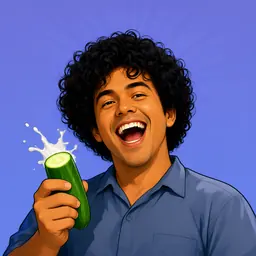
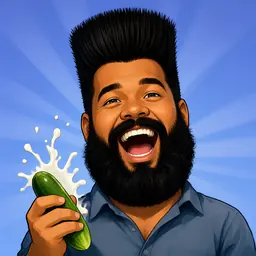
Inicio con música, sonidos limpios, portada animada y tarjetas de piloto grandes
- Tema del menú «Tóxico de Managua»: original, compás en 3 con color frigio dominante,
  estrofa de arpegio limpio y coro pesado (inicio, menús y sala).
- Sonidos de interfaz nuevos: tic al pasar, doble nota al elegir, campanita al
  confirmar y nota bajando al volver.
- Portada: entrada animada, brillo en JUGAR, íconos en los botones, «Sonando» con
  ecualizador para silenciar y la pandilla desfilando abajo.
- Tarjetas de piloto con el retrato grande. Retratos de Semilla (entradas, pelo
  peinado para atrás), Chete (camiseta rosada) y Raulín (pelo chirizo y barbota).

Claude-Session: https://claude.ai/code/session_01HN3xk9krfcrwq95wq7vuzq

diff --git a/src/App.tsx b/src/App.tsx
@@ -3,6 +3,7 @@ import { FullscreenButton } from './components/FullscreenButton';
 import {AssetBoundary} from './components/AssetBoundary';
 import {useDialogTrap} from './components/useDialogTrap';
 import {menuAudio} from './game/menuAudio';
+import {NowPlaying,GangStrip,ChipIcon} from './components/TitleExtras';
 import {ModeIcon} from './components/WeaponIcon';
 import { ArcadeGarage } from './components/ArcadeGarage';
 import { WorldPicture } from './components/WorldPicker';
@@ -30,7 +31,7 @@ export default function App(){
  const [selection,setSelection]=useState(initialSelection),[trackId,setTrack]=useState('la-salle'),[mode,setMode]=useState<Mode>('race'),[bots,setBots]=useState(5),[difficulty,setDifficulty]=useState(()=>{try{return Number(localStorage.getItem('morly-difficulty')??1);}catch{return 1;}}),[session,setSession]=useState<Session|null>(null),[view,setView]=useState<'menu'|'lobby'|'game'>('menu'),[step,setStep]=useState(0),[busy,setBusy]=useState(false),[error,setError]=useState(''),[code,setCode]=useState(()=>new URLSearchParams(location.search).get('sala')??''),[online,setOnline]=useState(false),[install,setInstall]=useState<InstallEvent|null>(null),[info,setInfo]=useState<'install'|'help'|'settings'|null>(null),[offlineStatus,setOfflineStatus]=useState('');
  const [updateReady,setUpdateReady]=useState(false);useEffect(()=>{const on=()=>setUpdateReady(true);window.addEventListener('morly-update',on);return()=>window.removeEventListener('morly-update',on);},[]);
  const applyUpdate=async()=>{const reg=await navigator.serviceWorker?.getRegistration();if(!reg?.waiting)return location.reload();navigator.serviceWorker.addEventListener('controllerchange',()=>location.reload(),{once:true});reg.waiting.postMessage({type:'ACTIVATE_FROM_MENU'});};
- const closeInfo=useCallback(()=>setInfo(null),[]);useDialogTrap(info!==null,closeInfo);useEffect(menuAudio,[]);
+ const closeInfo=useCallback(()=>setInfo(null),[]);useDialogTrap(info!==null,closeInfo);useEffect(()=>view==='game'?undefined:menuAudio(),[view]);
  // Draw the pilot and car portraits while the title screen is up, so the garage never opens on empty slots.
  useEffect(()=>{const t=window.setTimeout(()=>{void import('./game/portraits').then(m=>m.characterPortraits().then(()=>m.vehiclePortraits()));},350);return()=>window.clearTimeout(t);},[]);
  useEffect(()=>{if(!offlineStatus||offlineStatus.startsWith('Guardando')||offlineStatus.startsWith('Liberando'))return;const timeout=setTimeout(()=>setOfflineStatus(''),6000);return()=>clearTimeout(timeout);},[offlineStatus]);
@@ -49,7 +50,7 @@ export default function App(){
  if(view==='game'&&session)return <AssetBoundary fallback={<div className="full-loading"><b>EL MOTOR NO DESCARGÓ.</b><span>Vuelve a conectarte y recarga el juego para guardar sus recursos.</span><button className="button yellow" onClick={exit}>Volver al garaje</button></div>}><Suspense fallback={<div className="full-loading"><b>MORLY KONG RACING</b><span>Inflando las llantas. El ego ya venía inflado.</span><button className="button cream" onClick={exit}>Volver</button></div>}><GameView session={session} onExit={exit}/></Suspense></AssetBoundary>;
  if(view==='lobby'&&session instanceof OnlineSession)return <Lobby session={session} onPlay={()=>setView('game')} onBack={exit}/>;
  return <div className={'arcade-app '+(step===0?'title-screen':'selection-screen step-'+step)}><div className="arcade-scanlines"/>
- {step===0?<><TitleArt/><div className="title-vignette"/><div className="title-content"><span className="arcade-edition">MANAGUA • EDICIÓN SIN GARANTÍA</span><h1 className="game-logo"><span>MORLY</span><span>KONG</span><b>RACING</b></h1><div className="checker-stripe"/><p>Los carros de antes. Las malas decisiones de siempre.</p><button autoFocus className="press-start" onClick={()=>setStep(1)}>JUGAR <span>▶</span></button><span className="insert-coin">PRESIONA ENTER · NO HACEMOS DEVOLUCIONES DE DIGNIDAD</span><div className="title-links"><button onClick={()=>setInfo('help')}>CONTROLES</button><button onClick={()=>setInfo('settings')}>AJUSTES</button><button onClick={()=>{setStep(4);setMode('race');}}>SALA PRIVADA</button><button onClick={()=>install?install.prompt():setInfo('install')}>INSTALAR</button><FullscreenButton variant="text" onUnsupported={()=>setInfo('install')}/></div></div>{updateReady&&<div className="arcade-toast update-toast" role="status"><span>Hay una versión nueva del juego.</span><button onClick={applyUpdate}>ACTUALIZAR AHORA</button></div>}<div className="title-bottom"><span className={online?'status-online':''}>{online?'● SERVIDOR ONLINE':'● MODO LOCAL LISTO'}</span><span>{CHARACTERS.length} PILOTOS · {VEHICLES.length} CARROS · {TRACKS.length} PISTAS</span><span>LA PANDILLA, SIN SUPERVISIÓN ADULTA.</span></div></>:
+ {step===0?<><TitleArt/><div className="title-vignette"/><div className="title-content"><span className="arcade-edition">MANAGUA • EDICIÓN SIN GARANTÍA</span><h1 className="game-logo"><span>MORLY</span><span>KONG</span><b>RACING</b></h1><div className="checker-stripe"/><p>Los carros de antes. Las malas decisiones de siempre.</p><button autoFocus className="press-start" onClick={()=>setStep(1)}>JUGAR <span>▶</span></button><span className="insert-coin">PRESIONA ENTER · NO HACEMOS DEVOLUCIONES DE DIGNIDAD</span><div className="title-links"><button onClick={()=>setInfo('help')}><ChipIcon name="controles"/>CONTROLES</button><button onClick={()=>setInfo('settings')}><ChipIcon name="ajustes"/>AJUSTES</button><button onClick={()=>{setStep(4);setMode('race');}}><ChipIcon name="sala"/>SALA PRIVADA</button><button onClick={()=>install?install.prompt():setInfo('install')}><ChipIcon name="instalar"/>INSTALAR</button><FullscreenButton variant="text" onUnsupported={()=>setInfo('install')}/></div></div>{updateReady&&<div className="arcade-toast update-toast" role="status"><span>Hay una versión nueva del juego.</span><button onClick={applyUpdate}>ACTUALIZAR AHORA</button></div>}<NowPlaying/><GangStrip/><div className="title-bottom"><span className={online?'status-online':''}>{online?'● SERVIDOR ONLINE':'● MODO LOCAL LISTO'}</span><span>{CHARACTERS.length} PILOTOS · {VEHICLES.length} CARROS · {TRACKS.length} PISTAS</span><span>LA PANDILLA, SIN SUPERVISIÓN ADULTA.</span></div></>:
 <><header className="arcade-header"><button className="mini-logo" onClick={()=>setStep(0)}>MORLY KONG <b>RACING</b></button><nav aria-label="Preparar partida">{['PILOTO','CARRO','PISTA','PARTIDA'].map((label,i)=><button key={label} className={step===i+1?'active':''} onClick={()=>setStep(i+1)}><i>{i+1}</i>{label}</button>)}</nav><FullscreenButton onUnsupported={()=>setInfo('install')}/><button className="arcade-help" onClick={()=>setInfo('help')} aria-label="Controles">?</button></header>
 <div className="arcade-heading"><span>{['','LA PANDILLA','EL GARAJE','EL CIRCUITO','A DAR LORA'][step]}</span><h1>{headings[step]}</h1><p>{subheadings[step]}</p></div>
 <main className="arcade-main">{step===1||step===2?<ArcadeGarage step={step} characterId={selection.characterId} vehicleId={selection.vehicleId} onCharacter={id=>setSelection(s=>({...s,characterId:id}))} onVehicle={id=>setSelection(s=>({...s,vehicleId:id}))}/>:step===3?<div className="arcade-worlds"><div className="world-3d-preview arcade-panel"><AssetBoundary fallback={null}><Suspense fallback={null}><Backdrop worldId={trackId} overview/></Suspense></AssetBoundary><div className="world-preview-caption"><strong>{track(trackId).name}</strong><span>{worldBanter[TRACKS.findIndex(t=>t.id===trackId)]}</span></div></div><div className="arcade-world-grid">{TRACKS.map((t,i)=><button className={'arcade-world-card '+(trackId===t.id?'selected':'')} key={t.id} onClick={()=>setTrack(t.id)} aria-pressed={trackId===t.id}><WorldPicture id={t.id}/><b>{t.name}</b><span>{worldBanter[i]}</span>{trackId===t.id&&<i>▶</i>}</button>)}</div></div>:<div className="arcade-setup"><section className="arcade-panel setup-modes"><div className="panel-strip">¿QUÉ TAN PERSONAL ES ESTO?</div><div className="arcade-modes">{MODES.map((m,i)=><button className={'arcade-mode '+(mode===m.id?'selected':'')} key={m.id} onClick={()=>setMode(m.id)} aria-pressed={mode===m.id}><ModeIcon kind={m.id}/><div><strong>{m.name}</strong><small>{m.note}</small><p>{modeBanter[i]}</p></div>{mode===m.id&&<b>▶</b>}</button>)}</div></section><section className="arcade-panel setup-ready"><div className="panel-strip">EL SOSPECHOSO Y SU VEHÍCULO</div><div className="setup-combination"><b>1P</b><div><strong>{character(selection.characterId).name} × {vehicle(selection.vehicleId).name}</strong><span>{mode==='championship'?'Copa: '+cupFor(trackId).map(id=>track(id).name).join(' → '):track(trackId).name}</span></div></div><div className="setup-fields"><label>Tu apodo<input maxLength={24} value={selection.nickname} onChange={e=>setSelection(s=>({...s,nickname:e.target.value}))} autoComplete="nickname"/></label><label>Bots de relleno<select value={bots} onChange={e=>setBots(Number(e.target.value))}><option value={0}>Sin bots</option>{[3,5,7,11].map(n=><option key={n} value={n}>{n} bots</option>)}</select></label><label>Nivel de los bots<select value={difficulty} onChange={e=>setDifficulty(Number(e.target.value))}><option value={0}>Relajados</option><option value={1}>Normales</option><option value={2}>Picados</option></select></label></div><button className="arcade-primary" onClick={play}>¡A LA PISTA! <span>▶</span></button><button className="arcade-secondary" onClick={()=>room()} disabled={busy}>{busy?'BUSCANDO CÓMPLICES…':'CREAR SALA PRIVADA ↗'}</button><div className="arcade-join"><label className="sr-only" htmlFor="room-code">Código de sala</label><input id="room-code" maxLength={8} value={code} placeholder="CÓDIGO DE SALA" onChange={e=>setCode(e.target.value.toUpperCase())} onKeyDown={e=>{if(e.key==='Enter')room(true);}}/><button onClick={()=>room(true)} disabled={busy}>ENTRAR ▶</button></div><p className="setup-banter">¿Perdiste? La culpa es del lag. Aunque estés jugando solo.</p>{error&&<p className="notice" role="alert">{error}</p>}</section></div>}</main>

diff --git a/src/game/music.ts b/src/game/music.ts
@@ -8,7 +8,7 @@
  */
 export type Inst='square'|'brass'|'accordion'|'marimba'|'steel'|'synth'|'pad'|'bass'|'pluck'|'piano'|'organ'|'dist'|'clean'|'sub'|'chip'|'rhodes'|'vibes'|'upright'|'wah'|'nylon'|'strings';
 export type Drum='kick'|'snare'|'hat'|'openhat'|'clap'|'tom'|'lowtom'|'guiro'|'rim'|'shaker'|'cowbell'|'riser'|'scratch'|'crash'|'tamb'|'boom'|'ride'|'brush';
-export type Groove='march'|'cumbia'|'drive'|'disco'|'tribal'|'reggae'|'britpop'|'hiphop'|'numetal'|'newwave'|'funkrock'|'grunge'|'chipplat'|'chipadv'|'sonnica'|'jazz'|'lounge'|'dream'|'nurock'|'slowrock';
+export type Groove='march'|'cumbia'|'drive'|'disco'|'tribal'|'reggae'|'britpop'|'hiphop'|'numetal'|'newwave'|'funkrock'|'grunge'|'chipplat'|'chipadv'|'sonnica'|'jazz'|'lounge'|'dream'|'nurock'|'slowrock'|'soadverse'|'soadheavy';
 interface Section{chords:number[];melody:string;
  /** Optional groove for this section only (a song can drop into another style). */ groove?:Groove;
  /** Optional riff/ostinato, degrees relative to the bar's chord, played by the score's riff instrument. */ riff?:string; }
@@ -19,7 +19,7 @@ export interface Score{
  /** Dotted-eighth delay on the lead and riff (dreamy guitars). */ echo?:boolean;
  sections:Record<'A'|'B',Section>;form:('A'|'B')[];
 }
-const MAJOR=[0,2,4,5,7,9,11],MINOR=[0,2,3,5,7,8,10],MIXO=[0,2,4,5,7,9,10],DORIAN=[0,2,3,5,7,9,10],HARMONIC=[0,2,3,5,7,8,11];
+const PHRYGDOM=[0,1,4,5,7,8,10],MAJOR=[0,2,4,5,7,9,11],MINOR=[0,2,3,5,7,8,10],MIXO=[0,2,4,5,7,9,10],DORIAN=[0,2,3,5,7,9,10],HARMONIC=[0,2,3,5,7,8,11];
 
 // «Recreo en Liverpool»: sixties piano-pop for the schoolyard — bouncy piano, organ, tambourine, walking bass. G major.
 const ls_liverpool:Score={title:'Recreo en Liverpool',bpm:128,swing:.08,root:196,mode:MAJOR,groove:'britpop',lead:'piano',leadB:'organ',color:'organ',form:['A','A','B','A'],sections:{
@@ -54,6 +54,12 @@ const sj_estelar:Score={title: 'Bahía estelar', bpm: 84, swing: 0, root: 146.83
 // «Héroe de la bahía»: a heroic 8-bit adventure march — brass fanfare lead over pulse-wave harmony, rolling march snare, galloping bass. Bb major.
 const sj_heroe:Score={title: 'Héroe de la bahía', bpm: 130, swing: 0, root: 233.08, mode: MAJOR, groove: 'chipadv', lead: 'brass', leadB: 'chip', color: 'chip', form: ['A', 'A', 'B', 'A'], sections: {A: {chords: [0, 0, 3, 3, 0, 0, 4, 4], melody: '4.8 0.6 0.1 0.1|0.2 1.2 2.2 3.2 4.8|5.8 3.4 5.4|7.12 -.2 7.1 7.1|7.6 8.2 9.8|9.4 8.4 7.4 6.4|4.6 5.2 6.8|4.12 -.4'}, B: {chords: [5, 5, 3, 3, 1, 1, 4, 4], melody: '9.8 7.4 9.4|10.12 9.4|10.8 12.4 10.4|9.16|8.8 7.4 8.4|10.12 8.4|11.6 10.2 9.4 8.4|11.16'}}};
 
+// «Tóxico de Managua» (menus): original alt-metal in a rolling triple feel with an Armenian-flavoured phrygian-dominant
+// colour — a mysterious clean-guitar arpeggio verse that explodes into a drop-tuned chug, snare rolls and crashes. D.
+const menu_toxico:Score={title:'Tóxico de Managua',bpm:117,swing:0,root:146.83,mode:PHRYGDOM,groove:'soadverse',lead:'synth',leadB:'brass',color:'pad',riffInst:'clean',steps:12,form:['A','B','A','B'],sections:{
+ A:{chords:[0,0,5,5,1,1,0,0],melody:'7.3 8.3 9.3 8.3|7.6 4.6|10.3 9.3 8.3 9.3|7.9 -.3|8.2 9.1 10.3 9.2 8.1 9.3|8.6 7.6|7.3 8.3 9.3 11.3|11.9 -.3',riff:'0.1 4.1 7.1 8.1 7.1 4.1 0.1 4.1 7.1 9.1 7.1 4.1|0.1 4.1 7.1 8.1 7.1 4.1 0.1 4.1 7.1 9.1 7.1 4.1|0.1 4.1 7.1 8.1 7.1 4.1 0.1 4.1 7.1 9.1 7.1 4.1|0.1 4.1 7.1 8.1 7.1 4.1 0.1 4.1 7.1 9.1 7.1 4.1|0.1 4.1 7.1 8.1 7.1 4.1 0.1 4.1 7.1 9.1 7.1 4.1|0.1 4.1 7.1 8.1 7.1 4.1 0.1 4.1 7.1 9.1 7.1 4.1|0.1 4.1 7.1 8.1 7.1 4.1 0.1 4.1 7.1 9.1 7.1 4.1|0.1 4.1 7.1 8.1 7.1 4.1 0.1 4.1 7.1 9.1 7.1 4.1'},
+ B:{chords:[0,0,1,1,5,5,6,0],groove:'soadheavy',melody:'14.3 14.3 13.3 14.3|15.6 14.6|15.3 15.3 14.3 12.3|11.12|14.3 14.3 13.3 12.3|13.6 12.6|13.3 12.3 11.3 9.3|7.12',riff:'0.1 0.1 1.1 0.1 3.1 2.1 0.1 0.1 1.1 0.1 4.2|0.1 0.1 1.1 0.1 3.1 2.1 0.1 0.1 1.1 0.1 4.2|0.1 0.1 1.1 0.1 3.1 2.1 0.1 0.1 1.1 0.1 4.2|0.1 0.1 1.1 0.1 3.1 2.1 0.1 0.1 1.1 0.1 4.2|0.1 0.1 1.1 0.1 3.1 2.1 0.1 0.1 1.1 0.1 4.2|0.1 0.1 1.1 0.1 3.1 2.1 0.1 0.1 1.1 0.1 4.2|0.1 0.1 1.1 0.1 3.1 2.1 0.1 0.1 1.1 0.1 4.2|0.1 0.1 1.1 0.1 3.1 2.1 0.1 0.1 1.1 0.1 4.2'}}};
+
 /** Every world rotates through its songs, one per race. */
 export const PLAYLISTS:Record<string,Score[]>={
  'la-salle':[ls_8bit,ls_conciencia,ls_liverpool],
@@ -61,7 +67,8 @@ export const PLAYLISTS:Record<string,Score[]>={
  'managua':[mg_primavera,mg_crawl],
  'hipa-hipa':[hp_romance,hp_azulado,hp_scratch],
  'masaya':[ms_piedra,ms_elegido],
- 'san-juan':[sj_estelar,sj_heroe]
+ 'san-juan':[sj_estelar,sj_heroe],
+ menu:[menu_toxico]
 };
 /** The first song of each world (kept for callers that only need one). */
 export const SCORES:Record<string,Score>=Object.fromEntries(Object.entries(PLAYLISTS).map(([id,list])=>[id,list[0]]));
@@ -96,7 +103,7 @@ export function musicStep(score:Score,beat:number,st:MusicState){
  const echo=(inst:Inst,freq:number,len:number,vol:number,pan:number)=>{n(inst,freq,len,vol,pan);if(score.echo){n(inst,freq,Math.min(len,3),vol*.38,-pan-.3,3);n(inst,freq,Math.min(len,3),vol*.16,pan+.3,6);}};
  const d=(drum:Drum,vol:number,pan=0)=>drums.push({drum,vol,pan,offset:0});
  const calm=st.level<1,last=st.level>=2,downbeat=s16===0,chip=groove==='chipplat'||groove==='chipadv';
- const heavy=groove==='numetal'||groove==='grunge';
+ const heavy=groove==='numetal'||groove==='grunge'||groove==='soadheavy';
  // ——— Lead melody (and its final-lap octave double). The reprise of A answers an octave up.
  const occurrence=Math.floor(barIndex/8)%form.length,reprise=sectionName==='A'&&occurrence===form.lastIndexOf('A')&&occurrence!==form.indexOf('A')&&!calm;
  if(!calm||bar%2===0){
@@ -149,6 +156,7 @@ export function musicStep(score:Score,beat:number,st:MusicState){
   case 'dream':if(downbeat&&bar%2===0)triad.forEach((t,i)=>n('pad',f(t+7),32,calm?.024:.03,(i-1)*.45));break;
   case 'nurock':if(downbeat&&bar%2===0)[chord,chord+4].forEach((t,i)=>n('strings',f(t+7),32,.02,(i-.5)*.6));break;
   case 'slowrock':if(downbeat&&bar%2===0)triad.forEach((t,i)=>n('pad',f(t+7),32,.018,(i-1)*.4));break;
+  case 'soadverse':case 'soadheavy':if(downbeat)[chord,chord+4].forEach((t,i)=>n('strings',f(t+7),12,groove==='soadheavy'?.022:.016,(i-.5)*.6));break;
   default:if(downbeat)triad.forEach((t,i)=>n('pad',f(t+7),16,calm?.03:.025,(i-1)*.35));
  }
  // ——— Bass: one pattern per groove, always on the chord root (fifth/octave for movement).
@@ -175,6 +183,7 @@ export function musicStep(score:Score,beat:number,st:MusicState){
   case 'lounge':if(s16===0)n('upright',root,5,bassVol);if(s16===6)n('upright',fifth,2,bassVol*.8);if(s16===10)n('upright',oct,3,bassVol*.75);if(!calm&&s16===14)n('upright',f(chord-6),2,bassVol*.7);break;
   case 'dream':if(s16===0)n('bass',root,7,bassVol*.9);if(s16===8)n('bass',bar%2?fifth:root,6,bassVol*.8);break;
   case 'nurock':if(s16%2===0)n('bass',s16===14?oct:root,1.6,bassVol*(s16%4===0?1:.75));break;
+  case 'soadverse':if(s16===0)n('bass',root,5,bassVol*.9);if(s16===6)n('bass',bar%2?fifth:root,5,bassVol*.8);break;
   case 'slowrock':if(s16===0)n('bass',root,6,bassVol);if(s16===6)n('bass',root,2,bassVol*.8);if(s16===10)n('bass',f(chord-5),4,bassVol*.85);break;
  }
  // ——— Colour layer: marimba ostinato (or plucked arps on the final lap) on eighths.
@@ -239,12 +248,18 @@ export function musicStep(score:Score,beat:number,st:MusicState){
   case 'nurock':
    if(s16===0||s16===7||s16===10)d('kick',calm?.16:.26);if(s16===4||s16===12){d('snare',calm?.09:.15);if(!calm)d('clap',.06);}d('hat',s16%2?hats*.5:hats);
    if(!calm&&bar%4===3&&(s16===13||s16===14))d('scratch',.08,s16===13?-.4:.4);break;
+  // Triple-feel alt-metal: a tight verse groove, then double kicks, crashes and a snare-and-tom roll into every fourth bar.
+  case 'soadverse':
+   if(s16===0||s16===7)d('kick',calm?.14:.22);if(s16===3||s16===9)d(calm?'rim':'snare',calm?.06:.12);if(s16%2===0)d('hat',hats*.9);if(!calm&&bar%4===3&&s16>=8)d('snare',.05+(s16-8)*.03);break;
+  case 'soadheavy':
+   if(s16===0||s16===1||s16===6||s16===7||(!calm&&s16===10))d('kick',calm?.18:.3);if(s16===3||s16===9)d('snare',calm?.12:.21);if(s16%2===0)d(calm?'hat':'openhat',calm?hats:.035);
+   if(downbeat&&bar%2===0)d('crash',.08);if(!calm&&bar%4===3&&s16>=6)d(s16<9?'tom':'lowtom',.13+(s16-6)*.015,s16<9?-.3:.3);break;
   case 'slowrock':
    if(s16===0||s16===3||(!calm&&s16===11))d('kick',calm?.18:.28);if(s16===8)d('snare',calm?.12:.2);if(s16%2===0)d('hat',hats*.9);if(!calm&&downbeat&&bar%4===0)d('crash',.06);
    if(!calm&&bar%4===3&&s16>=12)d('tom',.12+(s16-12)*.02,(s16-13.5)*.2);break;
  }
  // Faster = busier: from 3/4 of top speed every groove gets a sixteenth shaker.
- if(!calm&&st.speed>.75&&s16%2===1&&!['disco','funkrock','jazz','lounge','dream','sonnica','slowrock'].includes(groove)&&!heavy)d('shaker',.025);
+ if(!calm&&st.speed>.75&&s16%2===1&&!['disco','funkrock','jazz','lounge','dream','sonnica','slowrock','soadverse'].includes(groove)&&!heavy)d('shaker',.025);
  if(last&&downbeat&&bar%4===0)d(heavy||groove==='newwave'?'crash':'openhat',.07);
  return{notes,drums,bar,section:sectionName};
 }

diff --git a/src/fiesta.css b/src/fiesta.css
@@ -83,3 +83,63 @@
 .arcade-world-card.selected .world-art{filter:saturate(1.15)}
 .driver-portrait.painted{overflow:hidden}
 .driver-portrait.painted img{width:100%;height:100%;object-fit:cover;object-position:50% 22%;transform:none}
+
+/* ——— Title screen polish ——— */
+/* A softer, darker pool behind the logo instead of the heavy left curtain, so the art breathes. */
+.title-screen .title-vignette{background:radial-gradient(ellipse 48% 70% at 27% 46%,#1a0838d9 0,#2a0f6b8c 45%,transparent 75%),linear-gradient(0deg,#14062fcc 0,transparent 26%)}
+/* Entrance: the logo drops in with a bounce, the rest rises in sequence. */
+.title-content>*{animation:title-rise .55s cubic-bezier(.2,1.2,.4,1) both}
+.title-content>.game-logo{animation:title-drop .8s cubic-bezier(.2,1.5,.4,1) both}
+.title-content>:nth-child(1){animation-delay:.05s}.title-content>:nth-child(3){animation-delay:.45s}.title-content>:nth-child(4){animation-delay:.55s}
+.title-content>:nth-child(5){animation-delay:.65s}.title-content>:nth-child(6){animation-delay:.75s}.title-content>:nth-child(7){animation-delay:.85s}
+@keyframes title-rise{from{opacity:0;transform:translateY(18px)}}
+@keyframes title-drop{0%{opacity:0;transform:translateY(-70px) scale(1.15) rotate(-3deg)}60%{opacity:1}}
+.press-start{position:relative;overflow:hidden}
+.press-start::after{content:'';position:absolute;top:-20%;bottom:-20%;width:38%;left:-60%;background:linear-gradient(100deg,transparent,#ffffffcc,transparent);transform:skewX(-20deg);animation:glare 3.4s ease-in-out 1.6s infinite}
+@keyframes glare{0%,55%{left:-60%}80%,100%{left:130%}}
+/* Chips with line icons. */
+.title-links>button{display:inline-flex;align-items:center;gap:7px;font-weight:900;letter-spacing:.06em;backdrop-filter:blur(6px);-webkit-backdrop-filter:blur(6px)}
+.chip-icon{width:15px;height:15px;flex:0 0 auto;fill:none;stroke:currentColor;stroke-width:2.2;stroke-linecap:round;stroke-linejoin:round}
+/* Now playing. */
+.now-playing{position:absolute;top:16px;right:18px;z-index:3;display:flex;align-items:center;gap:10px;padding:7px 14px 7px 10px;border-radius:999px;border:2px solid #ffffff55;background:#14062f99;color:#fff6dc;backdrop-filter:blur(8px);-webkit-backdrop-filter:blur(8px);text-align:left;animation:title-rise .6s 1s both;cursor:pointer}
+.now-playing:hover{border-color:#ffd33d}
+.now-playing .np-text{display:flex;flex-direction:column;line-height:1.15}
+.now-playing small{font-size:8px;letter-spacing:.14em;color:#ff8fc4;font-weight:900}
+.now-playing b{font-size:12px;font-weight:900}
+.eq{display:flex;align-items:flex-end;gap:2px;height:16px}
+.eq i{width:3px;background:#ffd33d;border-radius:2px;animation:eq .9s ease-in-out infinite}
+.eq i:nth-child(2){animation-delay:-.3s}.eq i:nth-child(3){animation-delay:-.6s}.eq i:nth-child(4){animation-delay:-.15s}
+@keyframes eq{0%,100%{height:4px}50%{height:16px}}
+.now-playing.muted .eq i{animation:none;height:3px;background:#ffffff66}
+.now-playing.muted small{color:#ffffff99}
+/* The gang strip. */
+.gang-strip{position:absolute;right:0;bottom:44px;width:44%;overflow:hidden;z-index:2;-webkit-mask-image:linear-gradient(90deg,transparent,#000 14%,#000 86%,transparent);mask-image:linear-gradient(90deg,transparent,#000 14%,#000 86%,transparent);animation:title-rise .6s 1.1s both}
+.gang-track{display:flex;gap:10px;width:max-content;animation:gang 38s linear infinite}
+.gang-track span{position:relative;width:54px;height:54px;border-radius:14px;border:3px solid #fff6dc;overflow:hidden;box-shadow:3px 4px 0 #14062f;flex:0 0 auto;transform:rotate(-3deg)}
+.gang-track span:nth-child(even){transform:rotate(3deg) translateY(4px)}
+.gang-track img{width:100%;height:100%;object-fit:cover;object-position:50% 22%}
+.gang-track em{position:absolute;left:0;right:0;bottom:0;font:900 7px/1.5 Verdana,sans-serif;font-style:normal;text-align:center;color:#fff;background:#14062fb3;letter-spacing:.04em}
+@keyframes gang{to{transform:translateX(-50%)}}
+@media (max-height:500px) and (orientation:landscape){.gang-strip{bottom:24px;width:42%}.gang-track span{width:40px;height:40px;border-radius:10px;border-width:2px}.now-playing{top:8px;right:10px;padding:5px 10px 5px 8px}.now-playing b{font-size:10px}}
+@media (max-width:700px) and (orientation:portrait){.gang-strip{width:100%;bottom:56px}}
+@media (prefers-reduced-motion:reduce){.title-content>*,.press-start::after,.gang-track,.eq i{animation:none!important}}
+@media (max-height:500px) and (orientation:landscape){
+ .gang-strip{display:none}
+ .title-links{flex-wrap:nowrap;max-width:100%}
+ .title-links>button{font-size:8px;padding:5px 8px;gap:4px;letter-spacing:.03em}
+ .title-links .chip-icon{width:11px;height:11px}
+}
+@media (max-width:950px) and (min-height:501px){.gang-strip{width:40%}}
+
+/* ——— Pilot tiles: the painted portrait is the card (bigger faces), name underneath. ——— */
+.pilot-roster{grid-template-columns:repeat(4,minmax(0,1fr))!important;gap:8px!important}
+.pilot-card{flex-direction:column!important;align-items:stretch!important;text-align:center!important;padding:0!important;gap:0!important;min-height:0!important;overflow:hidden;border-width:2px!important;border-top-width:2px!important;border-left-width:2px!important;border-radius:12px}
+.pilot-card .driver-portrait,.pilot-card.selected .driver-portrait{width:100%!important;height:auto!important;aspect-ratio:16/11;border:0!important;border-radius:0!important;box-shadow:none!important}
+.pilot-card .driver-portrait img{object-position:50% 24%;transition:transform .25s ease}
+.pilot-card:hover .driver-portrait img,.pilot-card.selected .driver-portrait img{transform:scale(1.08)}
+.pilot-card-text{padding:4px 6px 6px;align-items:center!important;text-align:center!important}
+.pilot-card-text strong{font-size:13px!important}
+.pilot-card-text small{font-size:10px!important}
+.pilot-card .pilot-badge{position:absolute;top:5px;right:5px}
+@media (max-height:500px) and (orientation:landscape){.pilot-roster{gap:5px!important}.pilot-card .driver-portrait{aspect-ratio:16/9}.pilot-card-text{padding:2px 4px 3px}.pilot-card-text strong{font-size:11px!important}.pilot-card-text small{display:none!important}}
+@media (max-width:700px) and (orientation:portrait){.pilot-roster{grid-template-columns:repeat(3,minmax(0,1fr))!important}}

diff --git a/src/game/models.ts b/src/game/models.ts
@@ -72,12 +72,12 @@ export function mergeParts(root:TransformNode,recursive=true,keep:TransformNode[
 // Stylised caricatures. Traits marked «confirmed» come from Jorsi; the rest are artistic choices
 // to tell the nine apart at a glance (see outputs/referencias-personajes.md).
 type Smile='grin'|'smirk'|'flat'|'wide'|'open';
-interface Look { skin:string; hair:string; head:[number,number,number]; eyes:number; brow:number; browTilt:number; haircut:'crop'|'side'|'spike'|'quiff'|'buzz'|'curly'|'up'|'balding';
+interface Look { skin:string; hair:string; head:[number,number,number]; eyes:number; brow:number; browTilt:number; haircut:'crop'|'side'|'spike'|'quiff'|'buzz'|'curly'|'up'|'balding'|'slick';
  /** Torso height / width multipliers and extra neck — Semilla tall, Sap Heinz thin, Enanonitas short. */ height:number; width:number; neck:number;
  cheeks:number; ears:number; nose:number; smile:Smile; beard?:'full'|'short'|'goatee'; moustache?:'thick'|'thin'; }
 const LOOKS:Record<string,Look>={
  // Semilla: the tallest of the gang (confirmed). Long face, short beard, half smile.
- semilla:{skin:'#c88b68',hair:'#2e2525',head:[.96,1.14,.94],eyes:.16,brow:.06,browTilt:.04,haircut:'crop',height:1.22,width:.94,neck:.2,cheeks:.04,ears:.21,nose:.25,smile:'smirk',beard:'short',moustache:'thick'},
+ semilla:{skin:'#c88b68',hair:'#161214',head:[.96,1.14,.94],eyes:.16,brow:.06,browTilt:.04,haircut:'slick',height:1.22,width:.94,neck:.2,cheeks:.04,ears:.21,nose:.25,smile:'smirk',beard:'short',moustache:'thick'},
  // Morly: the darkest skin of the group (confirmed), light cap, big grin, beard and moustache.
  morly:{skin:'#7d4e33',hair:'#1f1a1b',head:[1.1,1.02,.98],eyes:.15,brow:.0,browTilt:-.04,haircut:'crop',height:1,width:.95,neck:0,cheeks:.04,ears:.42,nose:.3,smile:'grin',beard:'short',moustache:'thick'},
  // Chete: the only one with big round cheeks (confirmed). Side part, confident smile, gold chain.
@@ -97,7 +97,7 @@ const LOOKS:Record<string,Look>={
  // Cucukis: very thin, fair skin, narrow eyes; sailor hat and sailor top.
  cucukis:{skin:'#f2d3ba',hair:'#5c4331',head:[.84,1.14,.9],eyes:.15,brow:.06,browTilt:-.04,haircut:'crop',height:1.08,width:.72,neck:.12,cheeks:.04,ears:.2,nose:.24,smile:'smirk'},
  // Raulín: round face and buzz cut, easy laugh.
- raulin:{skin:'#c39479',hair:'#392d27',head:[1.04,1.06,.96],eyes:.18,brow:-.03,browTilt:0,haircut:'curly',height:.98,width:.96,neck:-.02,cheeks:.04,ears:.23,nose:.28,smile:'open'},
+ raulin:{skin:'#c39479',hair:'#1f1a18',head:[1.04,1.06,.96],eyes:.18,brow:-.03,browTilt:0,haircut:'spike',height:.98,width:.96,neck:-.02,cheeks:.04,ears:.23,nose:.28,smile:'open',beard:'full'},
 };
 const aimTemp=new Quaternion();
 /** Points a pilot's arm (a shoulder pivot) along a direction in the pilot's own space; rate 1 snaps. */
@@ -141,7 +141,7 @@ export function buildCharacter(scene:Scene,id:string,parent:TransformNode){
  else if(f.smile==='smirk'){tube(scene,head,'mouth-line',[[-.13,1.0,mz+.03],[.02,.985,mz+.04],[.15,1.03,mz+.02]],.03,'#542c31');}
  else tube(scene,head,'mouth-line',[[-.12,1.0,mz+.03],[.12,1.0,mz+.03]],.03,'#542c31');
  // Hair.
- const crown=f.haircut==='balding'?sphere(scene,head,'hair-crown',0,1.2,-.3,.8,f.hair,new Vector3(1.02*hx,.45,.6)):f.haircut==='buzz'?sphere(scene,head,'hair-crown',0,1.5,-.06,.9,f.hair,new Vector3(1.0*hx,.5,.94)):sphere(scene,head,'hair-crown',0,1.55,-.055,.86,f.hair,new Vector3(1.01*hx,.58,.92));
+ const crown=f.haircut==='slick'?sphere(scene,head,'hair-crown',0,1.56,-.14,.86,f.hair,new Vector3(1.02*hx,.56,.9)):f.haircut==='balding'?sphere(scene,head,'hair-crown',0,1.2,-.3,.8,f.hair,new Vector3(1.02*hx,.45,.6)):f.haircut==='buzz'?sphere(scene,head,'hair-crown',0,1.5,-.06,.9,f.hair,new Vector3(1.0*hx,.5,.94)):sphere(scene,head,'hair-crown',0,1.55,-.055,.86,f.hair,new Vector3(1.01*hx,.58,.92));
  if(f.haircut==='side'||f.haircut==='quiff'){sphere(scene,head,'hair-lock',-.18*hx,1.62,.22,.48,f.hair,new Vector3(1.3,.45,.6));crown.rotation.z=.08;}
  if(f.haircut==='quiff')sphere(scene,head,'hair-quiff',.02,1.78,.18,.5,f.hair,new Vector3(1.1,.6,.8));
  if(f.haircut==='spike')for(let i=0;i<5;i++){const tuft=cylinder(scene,head,'hair-tuft',(i-2)*.13*hx,1.78,-.06,.32,.2,f.hair,.015);tuft.rotation.z=(i-2)*-.14;}

diff --git a/src/game/menuAudio.ts b/src/game/menuAudio.ts
@@ -1,1 +1,27 @@
-export function menuAudio(){let ctx:AudioContext|null=null;const click=(e:Event)=>{if(localStorage.getItem('morly-muted')==='yes'||!(e.target as HTMLElement).closest('.arcade-app button,.lobby-page button'))return;try{ctx??=new AudioContext();ctx.resume().catch(()=>{});const o=ctx.createOscillator(),g=ctx.createGain();o.type='triangle';o.frequency.setValueAtTime(550,ctx.currentTime);o.frequency.setValueAtTime(880,ctx.currentTime+.045);g.gain.setValueAtTime(.06,ctx.currentTime);g.gain.exponentialRampToValueAtTime(.001,ctx.currentTime+.13);o.connect(g);g.connect(ctx.destination);o.start();o.stop(ctx.currentTime+.14);o.onended=()=>{o.disconnect();g.disconnect();};}catch{}};document.addEventListener('click',click);return()=>{document.removeEventListener('click',click);ctx?.close();};}
+import { GameAudio } from './audio';
+import { PLAYLISTS } from './music';
+
+/** Title of the menu theme, for the «now playing» pill. */
+export const MENU_SONG=PLAYLISTS.menu?.[0]?.title??'';
+
+/**
+ * Menus: the theme song plus clean interface sounds. The audio context starts on the first tap or key (browser rule);
+ * the music fades with the shared mute and music-volume settings. Returns the cleanup for useEffect.
+ */
+export function menuAudio(){
+ const audio=new GameAudio('menu');let started=false,lastHover=0;
+ const start=()=>{if(started){return;}started=true;audio.start();audio.setIntensity(1);audio.setSpeed(.45);};
+ const kindOf=(el:HTMLElement):'confirm'|'back'|'select'|'toggle'=>{
+  if(el.matches('.press-start,.next-button,.arcade-primary,.button.yellow'))return 'confirm';
+  if(el.matches('.back-button,.arcade-back')||/^\s*(◀\s*)?ATRÁS/i.test(el.textContent??''))return 'back';
+  if(el.matches('input[type=checkbox],input[type=range],.toggle'))return 'toggle';
+  return 'select';
+ };
+ const click=(e:Event)=>{start();const el=(e.target as HTMLElement)?.closest?.('.arcade-app button,.arcade-dialog button,.lobby-page button,.arcade-app input,.arcade-dialog input') as HTMLElement|null;if(el)audio.ui(kindOf(el));};
+ const hover=(e:PointerEvent)=>{if(e.pointerType!=='mouse')return;const el=(e.target as HTMLElement)?.closest?.('.arcade-app button,.lobby-page button');if(!el||el.contains(e.relatedTarget as Node))return;const now=performance.now();if(now-lastHover<45)return;lastHover=now;if(started)audio.ui('hover');};
+ const key=(e:KeyboardEvent)=>{start();if(['ArrowLeft','ArrowRight','ArrowUp','ArrowDown'].includes(e.key)&&started)audio.ui('hover');};
+ document.addEventListener('click',click,true);document.addEventListener('pointerover',hover);document.addEventListener('keydown',key);
+ // Returning from a race the browser already allows sound: start right away.
+ if(navigator.userActivation?.hasBeenActive)start();
+ return()=>{document.removeEventListener('click',click,true);document.removeEventListener('pointerover',hover);document.removeEventListener('keydown',key);audio.dispose();};
+}

diff --git a/src/components/TitleExtras.tsx b/src/components/TitleExtras.tsx
@@ -1,0 +1,28 @@
+import { useEffect,useState } from 'react';
+import { CHARACTERS } from '../../shared/content';
+import { audioSettings } from '../game/audio';
+import { MENU_SONG } from '../game/menuAudio';
+
+/** «Now playing» pill on the title: the menu theme's name with an equalizer, tap to mute or unmute everything. */
+export function NowPlaying(){
+ const [muted,setMuted]=useState(audioSettings.muted);
+ useEffect(()=>{const sync=(e:StorageEvent)=>{if(e.key==='morly-muted')setMuted(e.newValue==='yes');};window.addEventListener('storage',sync);return()=>window.removeEventListener('storage',sync);},[]);
+ return <button className={'now-playing'+(muted?' muted':'')} onClick={()=>{const next=!muted;setMuted(next);audioSettings.set('morly-muted',next?'yes':'no');}} aria-pressed={!muted} aria-label={muted?'Activar sonido':'Silenciar'}>
+  <span className="eq" aria-hidden="true"><i/><i/><i/><i/></span><span className="np-text"><small>{muted?'SONIDO APAGADO':'SONANDO'}</small><b>{MENU_SONG}</b></span>
+ </button>;
+}
+
+/** The gang, marching along the bottom of the title: painted portraits on a loop. */
+export function GangStrip(){
+ const list=[...CHARACTERS,...CHARACTERS];
+ return <div className="gang-strip" aria-hidden="true"><div className="gang-track">{list.map((c,i)=><span key={c.id+i} style={{backgroundColor:c.color}}><img src={`/art/pilot-${c.id}.webp`} alt="" loading="lazy" decoding="async"/><em>{c.name}</em></span>)}</div></div>;
+}
+
+const ICONS:Record<string,string>={
+ controles:'M7 9h4M9 7v4M15 9.5h.01M18 11.5h.01M6.5 5h11a4.5 4.5 0 0 1 4.4 5.4l-.9 4.6a3 3 0 0 1-5.3 1.3L14 14h-4l-1.7 2.3A3 3 0 0 1 3 15l-.9-4.6A4.5 4.5 0 0 1 6.5 5z',
+ ajustes:'M12 15a3 3 0 1 0 0-6 3 3 0 0 0 0 6zM19.4 15a1.7 1.7 0 0 0 .3 1.8l.1.1a2 2 0 1 1-2.8 2.8l-.1-.1a1.7 1.7 0 0 0-1.8-.3 1.7 1.7 0 0 0-1 1.5V21a2 2 0 1 1-4 0v-.1a1.7 1.7 0 0 0-1.1-1.5 1.7 1.7 0 0 0-1.8.3l-.1.1a2 2 0 1 1-2.8-2.8l.1-.1a1.7 1.7 0 0 0 .3-1.8 1.7 1.7 0 0 0-1.5-1H3a2 2 0 1 1 0-4h.1a1.7 1.7 0 0 0 1.5-1.1 1.7 1.7 0 0 0-.3-1.8l-.1-.1a2 2 0 1 1 2.8-2.8l.1.1a1.7 1.7 0 0 0 1.8.3H9a1.7 1.7 0 0 0 1-1.5V3a2 2 0 1 1 4 0v.1a1.7 1.7 0 0 0 1 1.5 1.7 1.7 0 0 0 1.8-.3l.1-.1a2 2 0 1 1 2.8 2.8l-.1.1a1.7 1.7 0 0 0-.3 1.8V9a1.7 1.7 0 0 0 1.5 1H21a2 2 0 1 1 0 4h-.1a1.7 1.7 0 0 0-1.5 1z',
+ sala:'M16 21v-2a4 4 0 0 0-4-4H6a4 4 0 0 0-4 4v2M9 11a4 4 0 1 0 0-8 4 4 0 0 0 0 8zM22 21v-2a4 4 0 0 0-3-3.9M16 3.1a4 4 0 0 1 0 7.8',
+ instalar:'M12 3v12M7 10l5 5 5-5M5 21h14',
+};
+/** Small line icon for the title chips. */
+export function ChipIcon({name}:{name:keyof typeof ICONS}){return <svg className="chip-icon" viewBox="0 0 24 24" aria-hidden="true"><path d={ICONS[name]}/></svg>;}

diff --git a/shared/content.ts b/shared/content.ts
@@ -3,7 +3,7 @@ const a = (name: string, object: string, icon: string, count = 1, effect: Attack
 export const CHARACTERS: CharacterDefinition[] = [
  { id:'semilla', name:'Semilla', initials:'SE', color:'#e7b93a', shirt:'#eee5d0', beard:true, basics:[a('Victoria','victoria','🍺'),a('Marlboro','cigarettes','🚬',1,'smoke'),a('Cenicero','ashtray','◉',1,'slip','rear')],special:a('Acompáñame a comprar bicha','sixpack','🍻',1,'stun') },
  { id:'morly',name:'Morly',initials:'MO',color:'#f5bc32',shirt:'#f5bc32',cap:'#fff2d4',beard:true,basics:[a('Toña','tona','🍺'),a('Ron Plata','rum','🍾'),a('Bolsa de hielo','ice','🧊',1,'slip','rear')],special:a('Chinelazo Voltio Impact!!','slipper','⚡',1,'stun') },
- { id:'chete',name:'Chete',initials:'CH',color:'#66ba8b',shirt:'#244f43',basics:[a('Billete','bill','💵',1,'paint'),a('Monedas','coin','🪙',5,'slow'),a('Diamante','diamond','💎')],special:a('Si yo me voy nadie juega play','console','🎮',1,'stun') },
+ { id:'chete',name:'Chete',initials:'CH',color:'#66ba8b',shirt:'#f27fb2',basics:[a('Billete','bill','💵',1,'paint'),a('Monedas','coin','🪙',5,'slow'),a('Diamante','diamond','💎')],special:a('Si yo me voy nadie juega play','console','🎮',1,'stun') },
  { id:'coconitas',name:'Coconitas',initials:'CO',color:'#ed783d',shirt:'#de783e',basics:[a('Pelota de básquet','basketball','🏀'),a('Dos pelotas','basketball','🏀',2),a('Flor de Caña','flor','🍾')],special:a('Kokonit Fatality','talc','☁',1,'smoke','area') },
  { id:'calin',name:'Calín',initials:'CA',color:'#df5c51',shirt:'#fff9e9',cap:'#d73e39',basics:[a('Una hoja','leaf','🌿',1,'slow'),a('Dos hojas','leaf','🌿',2,'slow'),a('Tres hojas','leaf','🌿',3,'slow')],special:a('Ármate 1','smoke','☁',1,'smoke','area') },
  { id:'sap-heinz',name:'Sap Heinz',initials:'SH',color:'#84b967',shirt:'#84b967',basics:[a('Un sapito','frog','🐸'),a('Dos sapitos','frog','🐸',2),a('Tres sapitos','frog','🐸',3)],special:a('Pizza de la rotonda','pizza','🍕',1,'stun') },

diff --git a/src/game/audio.ts b/src/game/audio.ts
@@ -192,6 +192,15 @@ export class GameAudio {
   if(!this.context)return;const at=this.context.currentTime+.05,r=this.score.root*2**(2/12)*2;
   [[1,0],[1.26,.12],[1.5,.24],[2,.36]].forEach(([k,d])=>this.instrument('brass',r*k,.18,.11,0,at+d));this.instrument('brass',r*2,.5,.1,0,at+.5);this.instrument('brass',r*1.5,.5,.06,0,at+.5);
  }
+ /** Clean menu sounds: a whisper of a tick on hover, a soft two-note «tic» to select, a rising chime with an air swoosh to
+  * confirm, a falling pair to go back. Short sines, no buzz, routed through the effects volume. */
+ ui(kind:'hover'|'select'|'confirm'|'back'|'toggle'){
+  if(kind==='hover'){this.tone(2350,.03,'sine',0,0,.035);return;}
+  if(kind==='toggle'){this.tone(1568,.05,'sine',0,0,.08);this.tone(2093,.06,'sine',.035,0,.06);return;}
+  if(kind==='select'){this.tone(1318.5,.07,'sine',0,-.1,.11);this.tone(1760,.11,'sine',.045,.1,.09);this.noise(.025,'bandpass',4200,0,.035);return;}
+  if(kind==='back'){this.tone(1046.5,.08,'sine',0,0,.1);this.tone(784,.14,'sine',.06,0,.09);return;}
+  [880,1108.7,1318.5,1760].forEach((f,i)=>this.tone(f,.22-i*.02,i%2?'sine':'triangle',i*.045,(i-1.5)*.15,.085));this.noise(.26,'bandpass',500,0,.05,0,3800);
+ }
  setTrack(id:string){if(PLAYLISTS[id])this.score=pickSong(id);}
  /** 0 calm (countdown/menus), 1 racing, 2 final lap. */
  setIntensity(level:number){const next=Math.round(bounded(level,0,2,0));if(next===2&&this.level===1)this.fanfare();this.level=next;}

diff --git a/tests/music.test.ts b/tests/music.test.ts
@@ -37,4 +37,10 @@ describe('música original por pista',()=>{
   for(let b=0;b<16*8;b++)echoes+=musicStep(dream,b,{level:1,tension:0,speed:.5,boost:false}).notes.filter(n=>n.offset>0).length;
   expect(echoes).toBeGreaterThan(20);
  });
+ it('el menú tiene su propio tema completo y válido',()=>{
+  const s=PLAYLISTS.menu?.[0];expect(s).toBeDefined();const steps=s.steps??16;
+  for(const name of ['A','B'] as const){expect(barLengths(s.sections[name].melody)).toEqual(Array(8).fill(steps));if(s.sections[name].riff)expect(barLengths(s.sections[name].riff!)).toEqual(Array(8).fill(steps));}
+  let notes=0;for(let b=0;b<steps*8*s.form.length;b++){const out=musicStep(s,b,{level:1,tension:0,speed:.45,boost:false});for(const n of out.notes){expect(n.freq>25&&n.freq<3000).toBe(true);notes++;}}
+  expect(notes).toBeGreaterThan(200);
+ });
 });
